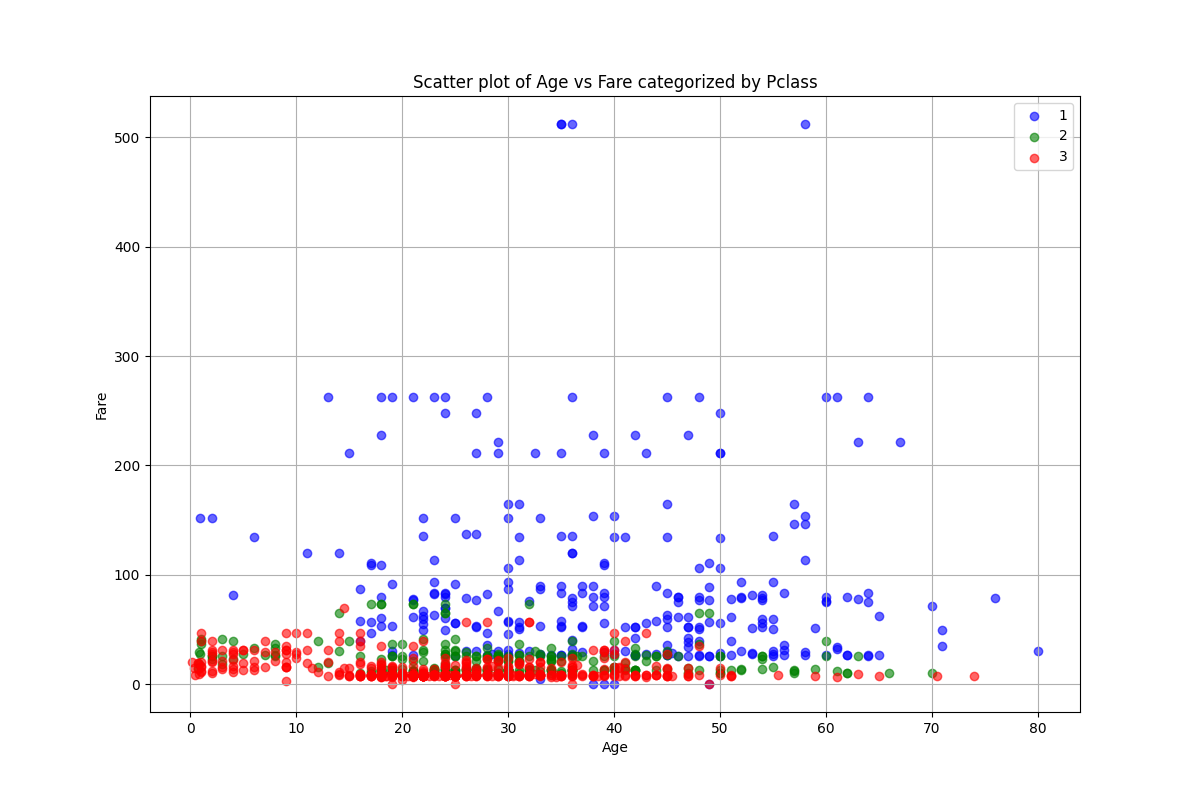
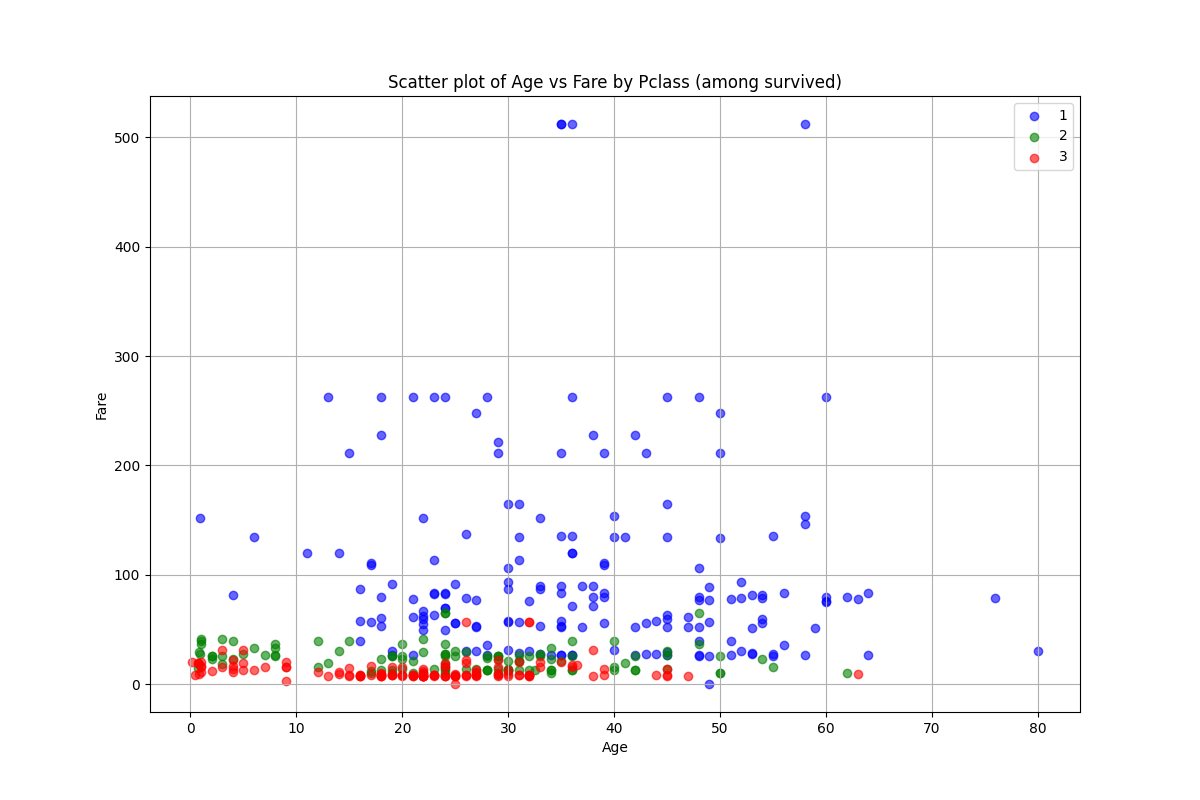
renamed  graphs

diff --git a/scripts/data_visualizer.py b/scripts/data_visualizer.py
@@ -2,7 +2,6 @@ import pandas as pd
 import matplotlib.pyplot as plt
 import os
 
-
 abspath = os.path.abspath(__file__)
 dname = os.path.dirname(abspath)
 os.chdir(dname)
@@ -62,8 +61,8 @@ def show_scatter_fare_age_survived():
     for status in 0, 1:
         subset = data[data['survived'] == status]
         plt.scatter(subset['age'], subset['fare'], color=colors[status], label=status, alpha=0.6)
-    plt.xlabel('Fare')
-    plt.ylabel('Age')
+    plt.xlabel('Age')
+    plt.ylabel('Fare')
     plt.title('Categorized Scatterplot: Fare vs Age by Survived')
     plt.legend()
     plt.grid(True)
@@ -72,13 +71,14 @@ def show_scatter_fare_age_survived():
 
 
 def show_scatter_fare_age_pclass():
+    alive = data[data['survived'] == 1]
     plt.figure(figsize=(12, 8))
     colors = {1: 'blue', 2: 'green', 3: 'red'}
     categories = data['pclass'].unique()
     for category in categories:
-        subset = data[data['pclass'] == category]
+        subset = alive[alive['pclass'] == category]
         plt.scatter(subset['age'], subset['fare'], color=colors[category], label=category, alpha=0.6)
-    plt.title('Scatter plot of Age vs Fare categorized by Pclass')
+    plt.title('Scatter plot of Age vs Fare by Pclass (among survived)')
     plt.xlabel('Age')
     plt.ylabel('Fare')
     plt.legend()
